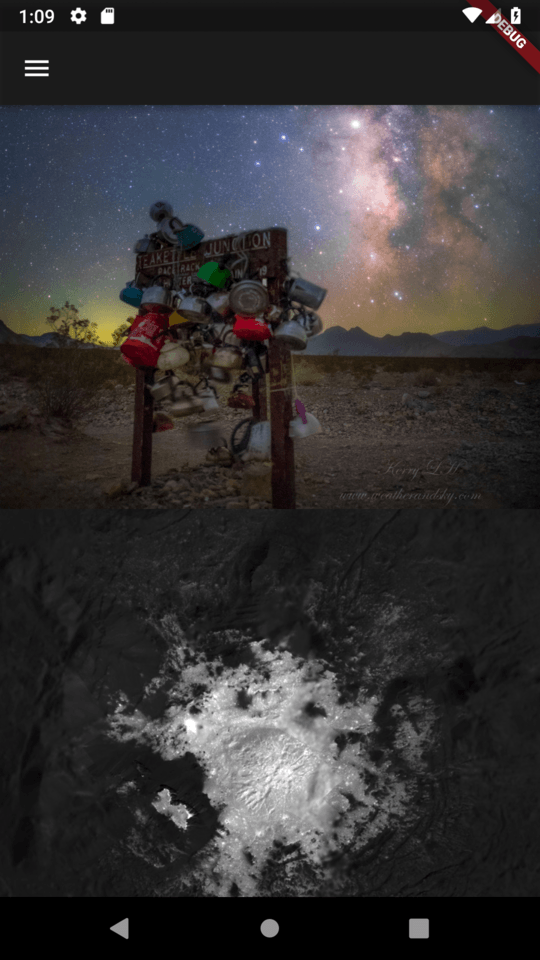
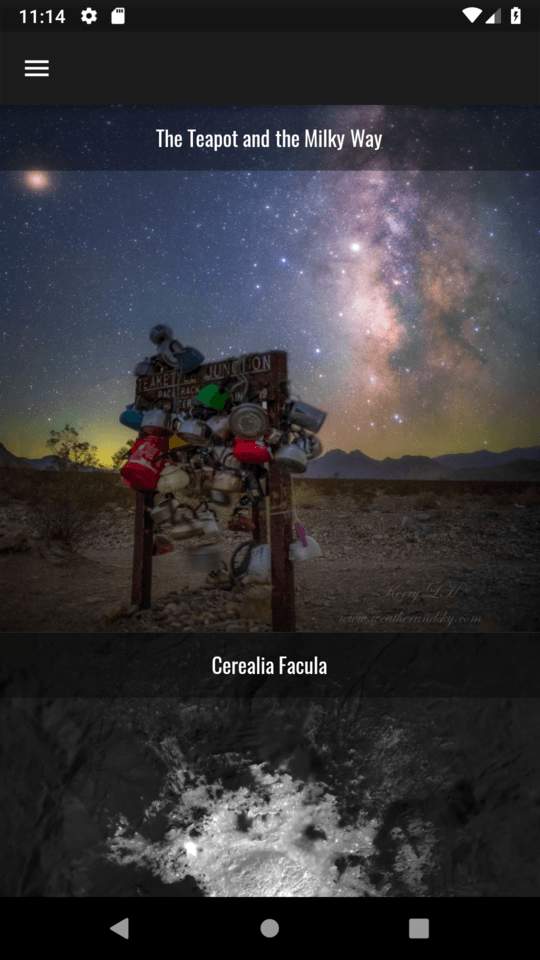
stickyHeader style + new screens w/o debug flag

diff --git a/lib/Pages/GalleryViewPage/gallery_image.dart b/lib/Pages/GalleryViewPage/gallery_image.dart
@@ -17,15 +17,19 @@ class GalleryImage extends StatelessWidget {
                 child: StickyHeaderBuilder(
                   overlapHeaders: true,
                   builder: (BuildContext context, double stuckAmount) {
-						      	stuckAmount = 1.0 - stuckAmount.clamp(0.0, 1.0);
-						      	return new Container(
+						      	return Container(
 						      		height: 50.0,
-						      		color: Colors.grey[900].withOpacity(0.6 + stuckAmount * 0.4),
-						      		padding: new EdgeInsets.symmetric(horizontal: 16.0),
+						      		color: Colors.black.withOpacity(0.35),
 						      		alignment: Alignment.centerLeft,
-						      		child: new Text(data['title'],
-						      			style: const TextStyle(color: Colors.white),
+						      		child: Center(
+                        child: Text(data['title'],
+						      			style: TextStyle(
+                          fontSize: 16.0,
+                          color: Colors.white,
+                          fontFamily: 'Oswald'
+                        ),
 						      		),
+                      ),
 						      	);
 						      },
                   content: ImageContainer(data: data,),

diff --git a/README.md b/README.md
@@ -12,6 +12,8 @@
   style="margin: 10px;"/>
   <img src="Screenshots/Spacey_boi(3).png" height="450"
   style="margin: 10px;"/>  
+  <img src="Screenshots/Spacey_boi(4).png" height="450"
+  style="margin: 10px;"/> 
 </div>
 
 <br>
